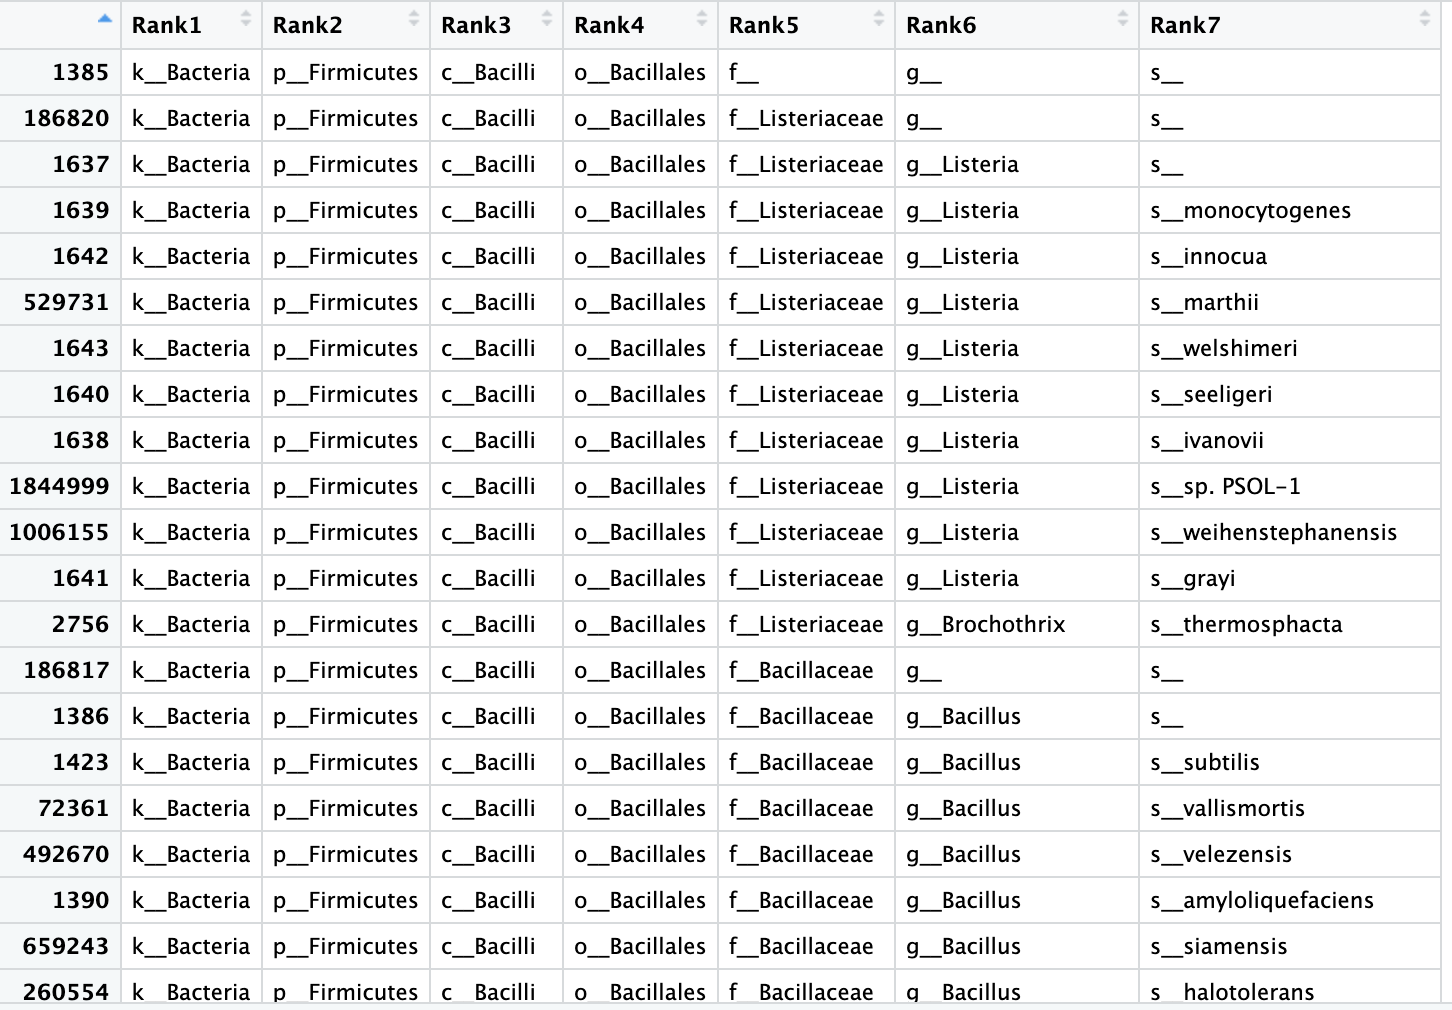
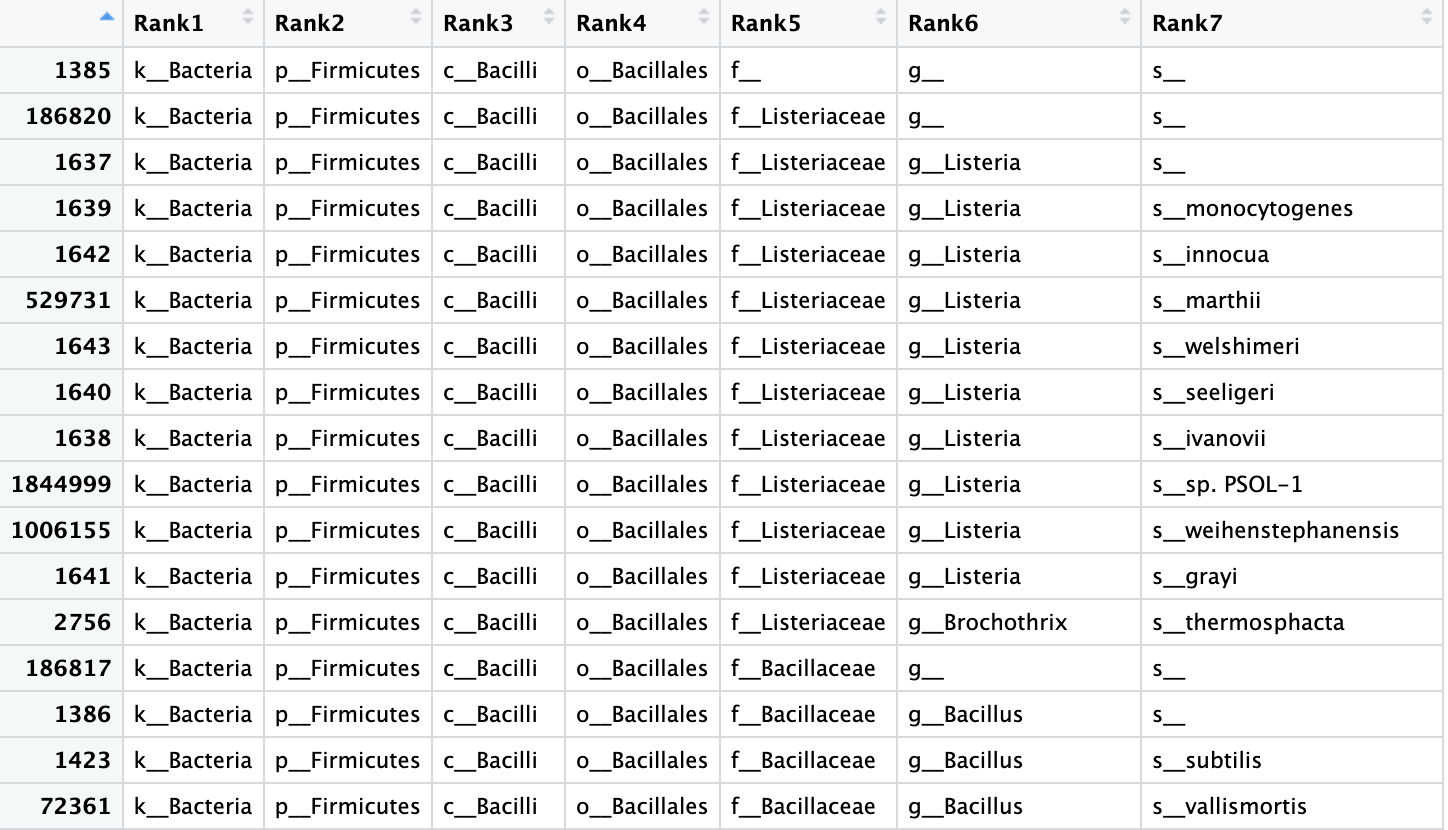
Updating screenshots

Changed region(s): [[0.0, 0.0, 1.0, 1.0]]

diff --git a/_episodes/02-Diversity-tackled-with-R.md b/_episodes/02-Diversity-tackled-with-R.md
@@ -308,10 +308,11 @@ So to remove the unnecessary characters we will use the following code:
 ~~~
 > biom_metagenome@tax_table@.Data <- substring(biom_metagenome@tax_table@.Data, 4)
 > colnames(biom_metagenome@tax_table@.Data)<- c("Kingdom", "Phylum", "Class", "Order", "Family", "Genus", "Species")
+> View(biom_metagenome@tax_table)
 ~~~
 {: .language-r}
 
-<img src="{{ page.root }}/fig/03_02_phyloseq_tax_tabe.png" alt="The same table we saw in Figure 3 but with informative headers in each of the columns. Now, we can see which of the columns are associated with which taxonomic classification rank" />
+<img src="{{ page.root }}/fig/03_02_phyloseq_taxtab_e.png" alt="The same table we saw in Figure 3 but with informative headers in each of the columns. Now, we can see which of the columns are associated with which taxonomic classification rank" />
 <em> Figure 4. Table of the OTU data from our `biom_metagenome` object. With corrections. <em/>
 
 To explore how many phyla we have, we are going to use a command name `unique()`. Let's try what result
